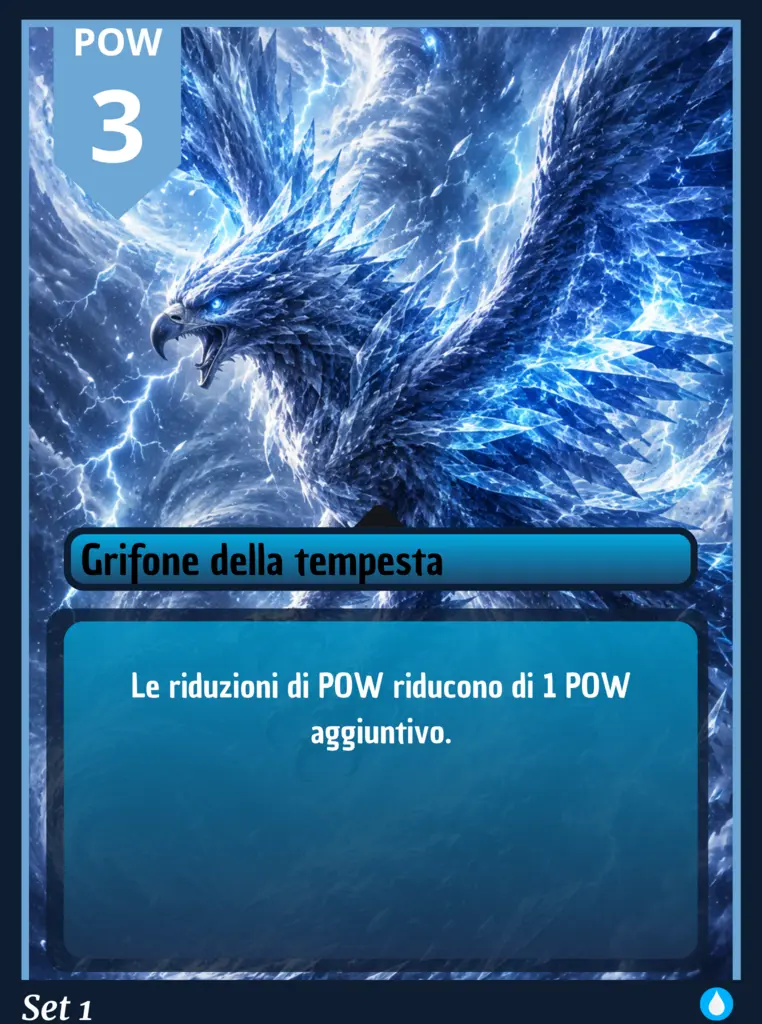
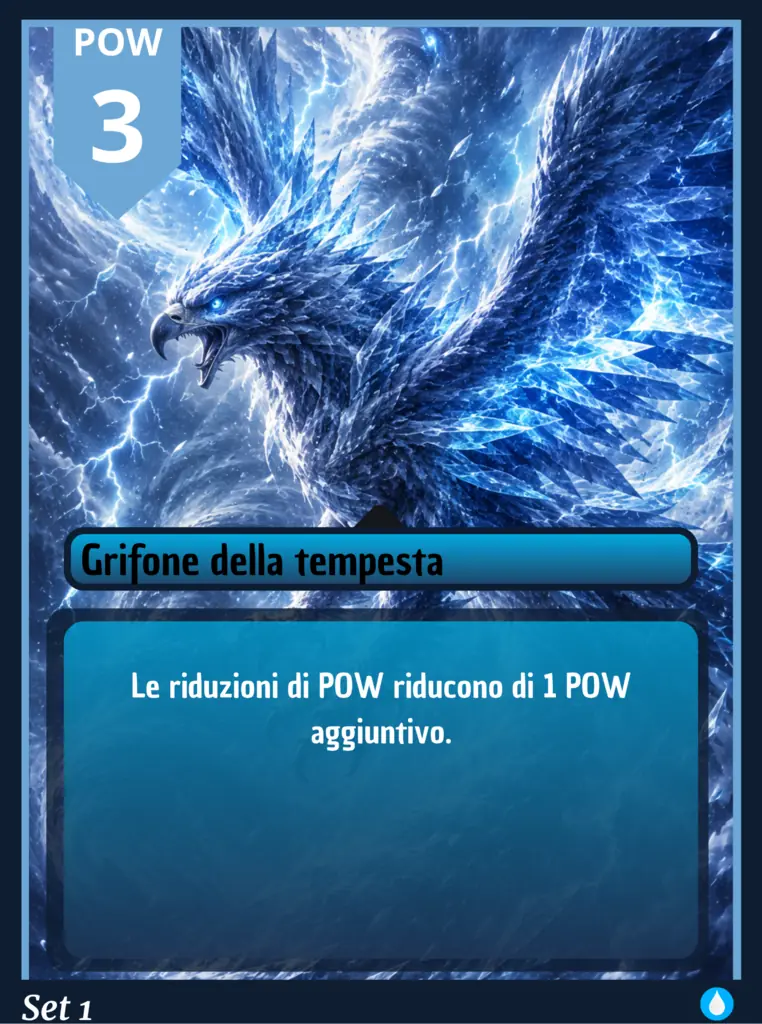
Sostituisce artwork di Lupo Glaciale e Grifone

diff --git a/soulforge/index.html b/soulforge/index.html
@@ -18,7 +18,7 @@
     const fixes={'â€¢':'•','â€”':'—','â†’':'→','â€™':'’','â€¦':'…','â†‘':'↑','â†“':'↓','PrioritÃ ':'Priorità','sarÃ ':'sarà','lâ€™':'l’'};
     for(const [bad,good] of Object.entries(fixes)) html=html.split(bad).join(good);
     html=html.replace('</head>','<link rel="stylesheet" href="/ui-v2.css?v=4"><link rel="stylesheet" href="/grave-targets-v4.css?v=1"><link rel="stylesheet" href="/interaction-v5.css?v=1"><link rel="stylesheet" href="/layout-v9.css?v=1"><link rel="stylesheet" href="/hand-v11.css?v=3"><link rel="stylesheet" href="/set1-v18.css?v=1"><link rel="stylesheet" href="/blue-v22.css?v=1"><link rel="stylesheet" href="/deck-builder-v18.css?v=2"><link rel="stylesheet" href="/deck-builder-v22.css?v=4"><link rel="stylesheet" href="/attack-arrow-v20.css?v=1"><link rel="stylesheet" href="/fantasy-board-v29.css?v=1"><link rel="stylesheet" href="/fantasy-board-v29-fix.css?v=1"><link rel="stylesheet" href="/fantasy-board-v30.css?v=1"><link rel="stylesheet" href="/fantasy-board-v31.css?v=1"><link rel="stylesheet" href="/fantasy-board-v32.css?v=1"><link rel="stylesheet" href="/fantasy-board-v33.css?v=1"><link rel="stylesheet" href="/fantasy-board-v34.css?v=1"><link rel="stylesheet" href="/preview-v35.css?v=1"><link rel="stylesheet" href="/fantasy-board-v36.css?v=1"><link rel="stylesheet" href="/fantasy-board-v37.css?v=1"><link rel="stylesheet" href="/fantasy-board-v38.css?v=1"><link rel="stylesheet" href="/fantasy-board-v39.css?v=1"><link rel="stylesheet" href="/coin-hand-v40.css?v=1"><link rel="stylesheet" href="/card-hud-v41.css?v=2"><link rel="stylesheet" href="/hand-position-v74.css?v=1"></head>');
-    html=html.replace('</body>','<script src="/ui-v2.js?v=6"><\/script><script src="/combat-rules-v28.js?v=2"><\/script><script src="/right-click-preview.js?v=6"><\/script><script src="/grave-targets-v4.js?v=2"><\/script><script src="/interaction-v5.js?v=2"><\/script><script src="/targeting-v8.js?v=2"><\/script><script src="/specchio-stack-fix.js?v=1"><\/script><script src="/stability-v10.js?v=1"><\/script><script src="/hand-v11.js?v=4"><\/script><script src="/alta-marea-v13.js?v=1"><\/script><script src="/selection-v16.js?v=1"><\/script><script src="/set1-v17.js?v=2"><\/script><script src="/blue-v22-loader.js?v=5"><\/script><script src="/deck-builder-v27-loader.js?v=1"><\/script><script src="/deck-builder-visual-fix-v71.js?v=3"><\/script><script src="/deck-preview-details-v76.js?v=1"><\/script><script src="/new-monsters-details-v78.js?v=2"><\/script><script src="/attack-arrow-v20.js?v=1"><\/script><script src="/rules-v23.js?v=2"><\/script><script src="/provocation-v24.js?v=2"><\/script><script src="/targeting-standard-v27.js?v=1"><\/script><script src="/fantasy-board-v29.js?v=2"><\/script><script src="/fantasy-board-v30.js?v=2"><\/script><script src="/fantasy-board-v31.js?v=2"><\/script><script src="/preview-conflict-v37.js?v=1"><\/script><script src="/preview-cleanup-v38.js?v=1"><\/script><script src="/coin-hand-v40.js?v=1"><\/script><script src="/card-hud-v41.js?v=1"><\/script><script src="/festa-art-v42.js?v=1"><\/script><script src="/combat-priority-v44.js?v=1"><\/script><script src="/turn-effects-v45.js?v=1"><\/script><script src="/new-cards-v46.js?v=6"><\/script><script src="/new-card-runtime-v47.js?v=1"><\/script><script src="/deck-builder-filters-v48.js?v=4"><\/script><script src="/rules-priority-grave-v49.js?v=4"><\/script><script src="/gameover-rematch-v50.js?v=1"><\/script><script src="/taglio-fiammante-v51.js?v=1"><\/script><script src="/nube-di-fuoco-v52.js?v=1"><\/script><script src="/orange-safe-v1.js?v=2"><\/script><script src="/orange-ui-v2.js?v=2"><\/script><script src="/compact-champions-v61.js?v=1"><\/script><script src="/pugno-target-v62.js?v=2"><\/script><script src="/champion-target-v63.js?v=1"><\/script><script src="/festa-fix-v64.js?v=1"><\/script><script src="/no-target-cast-v65.js?v=1"><\/script><script src="/game-interaction-lock-v66.js?v=1"><\/script><script src="/grave-art-v67.js?v=2"><\/script><script src="/scatola-incantata-v75.js?v=1"><\/script><script src="/new-set-v70.js?v=1"><\/script><script src="/new-set-art-v73.js?v=6"><\/script><script src="/new-monsters-v77.js?v=1"><\/script><script src="/hand-input-v69.js?v=3"><\/script></body>');
+    html=html.replace('</body>','<script src="/ui-v2.js?v=6"><\/script><script src="/combat-rules-v28.js?v=2"><\/script><script src="/right-click-preview.js?v=6"><\/script><script src="/grave-targets-v4.js?v=2"><\/script><script src="/interaction-v5.js?v=2"><\/script><script src="/targeting-v8.js?v=2"><\/script><script src="/specchio-stack-fix.js?v=1"><\/script><script src="/stability-v10.js?v=1"><\/script><script src="/hand-v11.js?v=4"><\/script><script src="/alta-marea-v13.js?v=1"><\/script><script src="/selection-v16.js?v=1"><\/script><script src="/set1-v17.js?v=2"><\/script><script src="/blue-v22-loader.js?v=5"><\/script><script src="/deck-builder-v27-loader.js?v=1"><\/script><script src="/deck-builder-visual-fix-v71.js?v=5"><\/script><script src="/deck-preview-details-v76.js?v=1"><\/script><script src="/new-monsters-details-v78.js?v=2"><\/script><script src="/attack-arrow-v20.js?v=1"><\/script><script src="/rules-v23.js?v=2"><\/script><script src="/provocation-v24.js?v=2"><\/script><script src="/targeting-standard-v27.js?v=1"><\/script><script src="/fantasy-board-v29.js?v=2"><\/script><script src="/fantasy-board-v30.js?v=2"><\/script><script src="/fantasy-board-v31.js?v=2"><\/script><script src="/preview-conflict-v37.js?v=1"><\/script><script src="/preview-cleanup-v38.js?v=1"><\/script><script src="/coin-hand-v40.js?v=1"><\/script><script src="/card-hud-v41.js?v=1"><\/script><script src="/festa-art-v42.js?v=1"><\/script><script src="/combat-priority-v44.js?v=1"><\/script><script src="/turn-effects-v45.js?v=1"><\/script><script src="/new-cards-v46.js?v=6"><\/script><script src="/new-card-runtime-v47.js?v=1"><\/script><script src="/deck-builder-filters-v48.js?v=4"><\/script><script src="/rules-priority-grave-v49.js?v=4"><\/script><script src="/gameover-rematch-v50.js?v=1"><\/script><script src="/taglio-fiammante-v51.js?v=1"><\/script><script src="/nube-di-fuoco-v52.js?v=1"><\/script><script src="/orange-safe-v1.js?v=2"><\/script><script src="/orange-ui-v2.js?v=2"><\/script><script src="/compact-champions-v61.js?v=1"><\/script><script src="/pugno-target-v62.js?v=2"><\/script><script src="/champion-target-v63.js?v=1"><\/script><script src="/festa-fix-v64.js?v=1"><\/script><script src="/no-target-cast-v65.js?v=1"><\/script><script src="/game-interaction-lock-v66.js?v=1"><\/script><script src="/grave-art-v67.js?v=2"><\/script><script src="/scatola-incantata-v75.js?v=1"><\/script><script src="/new-set-v70.js?v=1"><\/script><script src="/new-set-art-v73.js?v=6"><\/script><script src="/new-monsters-v77.js?v=1"><\/script><script src="/hand-input-v69.js?v=3"><\/script></body>');
     document.open();document.write(html);document.close();
   }catch(e){
     document.getElementById('status').className='err';

diff --git a/soulforge/deck-builder-visual-fix-v71.js b/soulforge/deck-builder-visual-fix-v71.js
@@ -6,8 +6,8 @@ const CURRENT='https://raw.githubusercontent.com/andreaamiraglia-svg/fanta-riftb
 const BLUE_ART={
   valtheris: CURRENT+'vecchio-delle-nevi.webp?rev=404c3869',
   squalo_delle_maree: CURRENT+'lupo-glaciale.webp?rev=404c3869',
-  lupo_glaciale: CURRENT+'grifone-della-tempesta.webp?rev=404c3869',
-  grifone_della_tempesta: CURRENT+'grifone-della-tempesta.webp?rev=griffon-fix-v1',
+  lupo_glaciale: CURRENT+'lupo-glaciale.webp?rev=blue-replace-v3',
+  grifone_della_tempesta: CURRENT+'grifone-della-tempesta.webp?rev=blue-replace-v3',
   yeti: CURRENT+'leviatano.webp?rev=404c3869',
   leviatano: CURRENT+'valtheris-spirito-eterno.webp?rev=404c3869',
   vecchio_delle_nevi: CURRENT+'squalo-delle-maree.webp?rev=404c3869'
